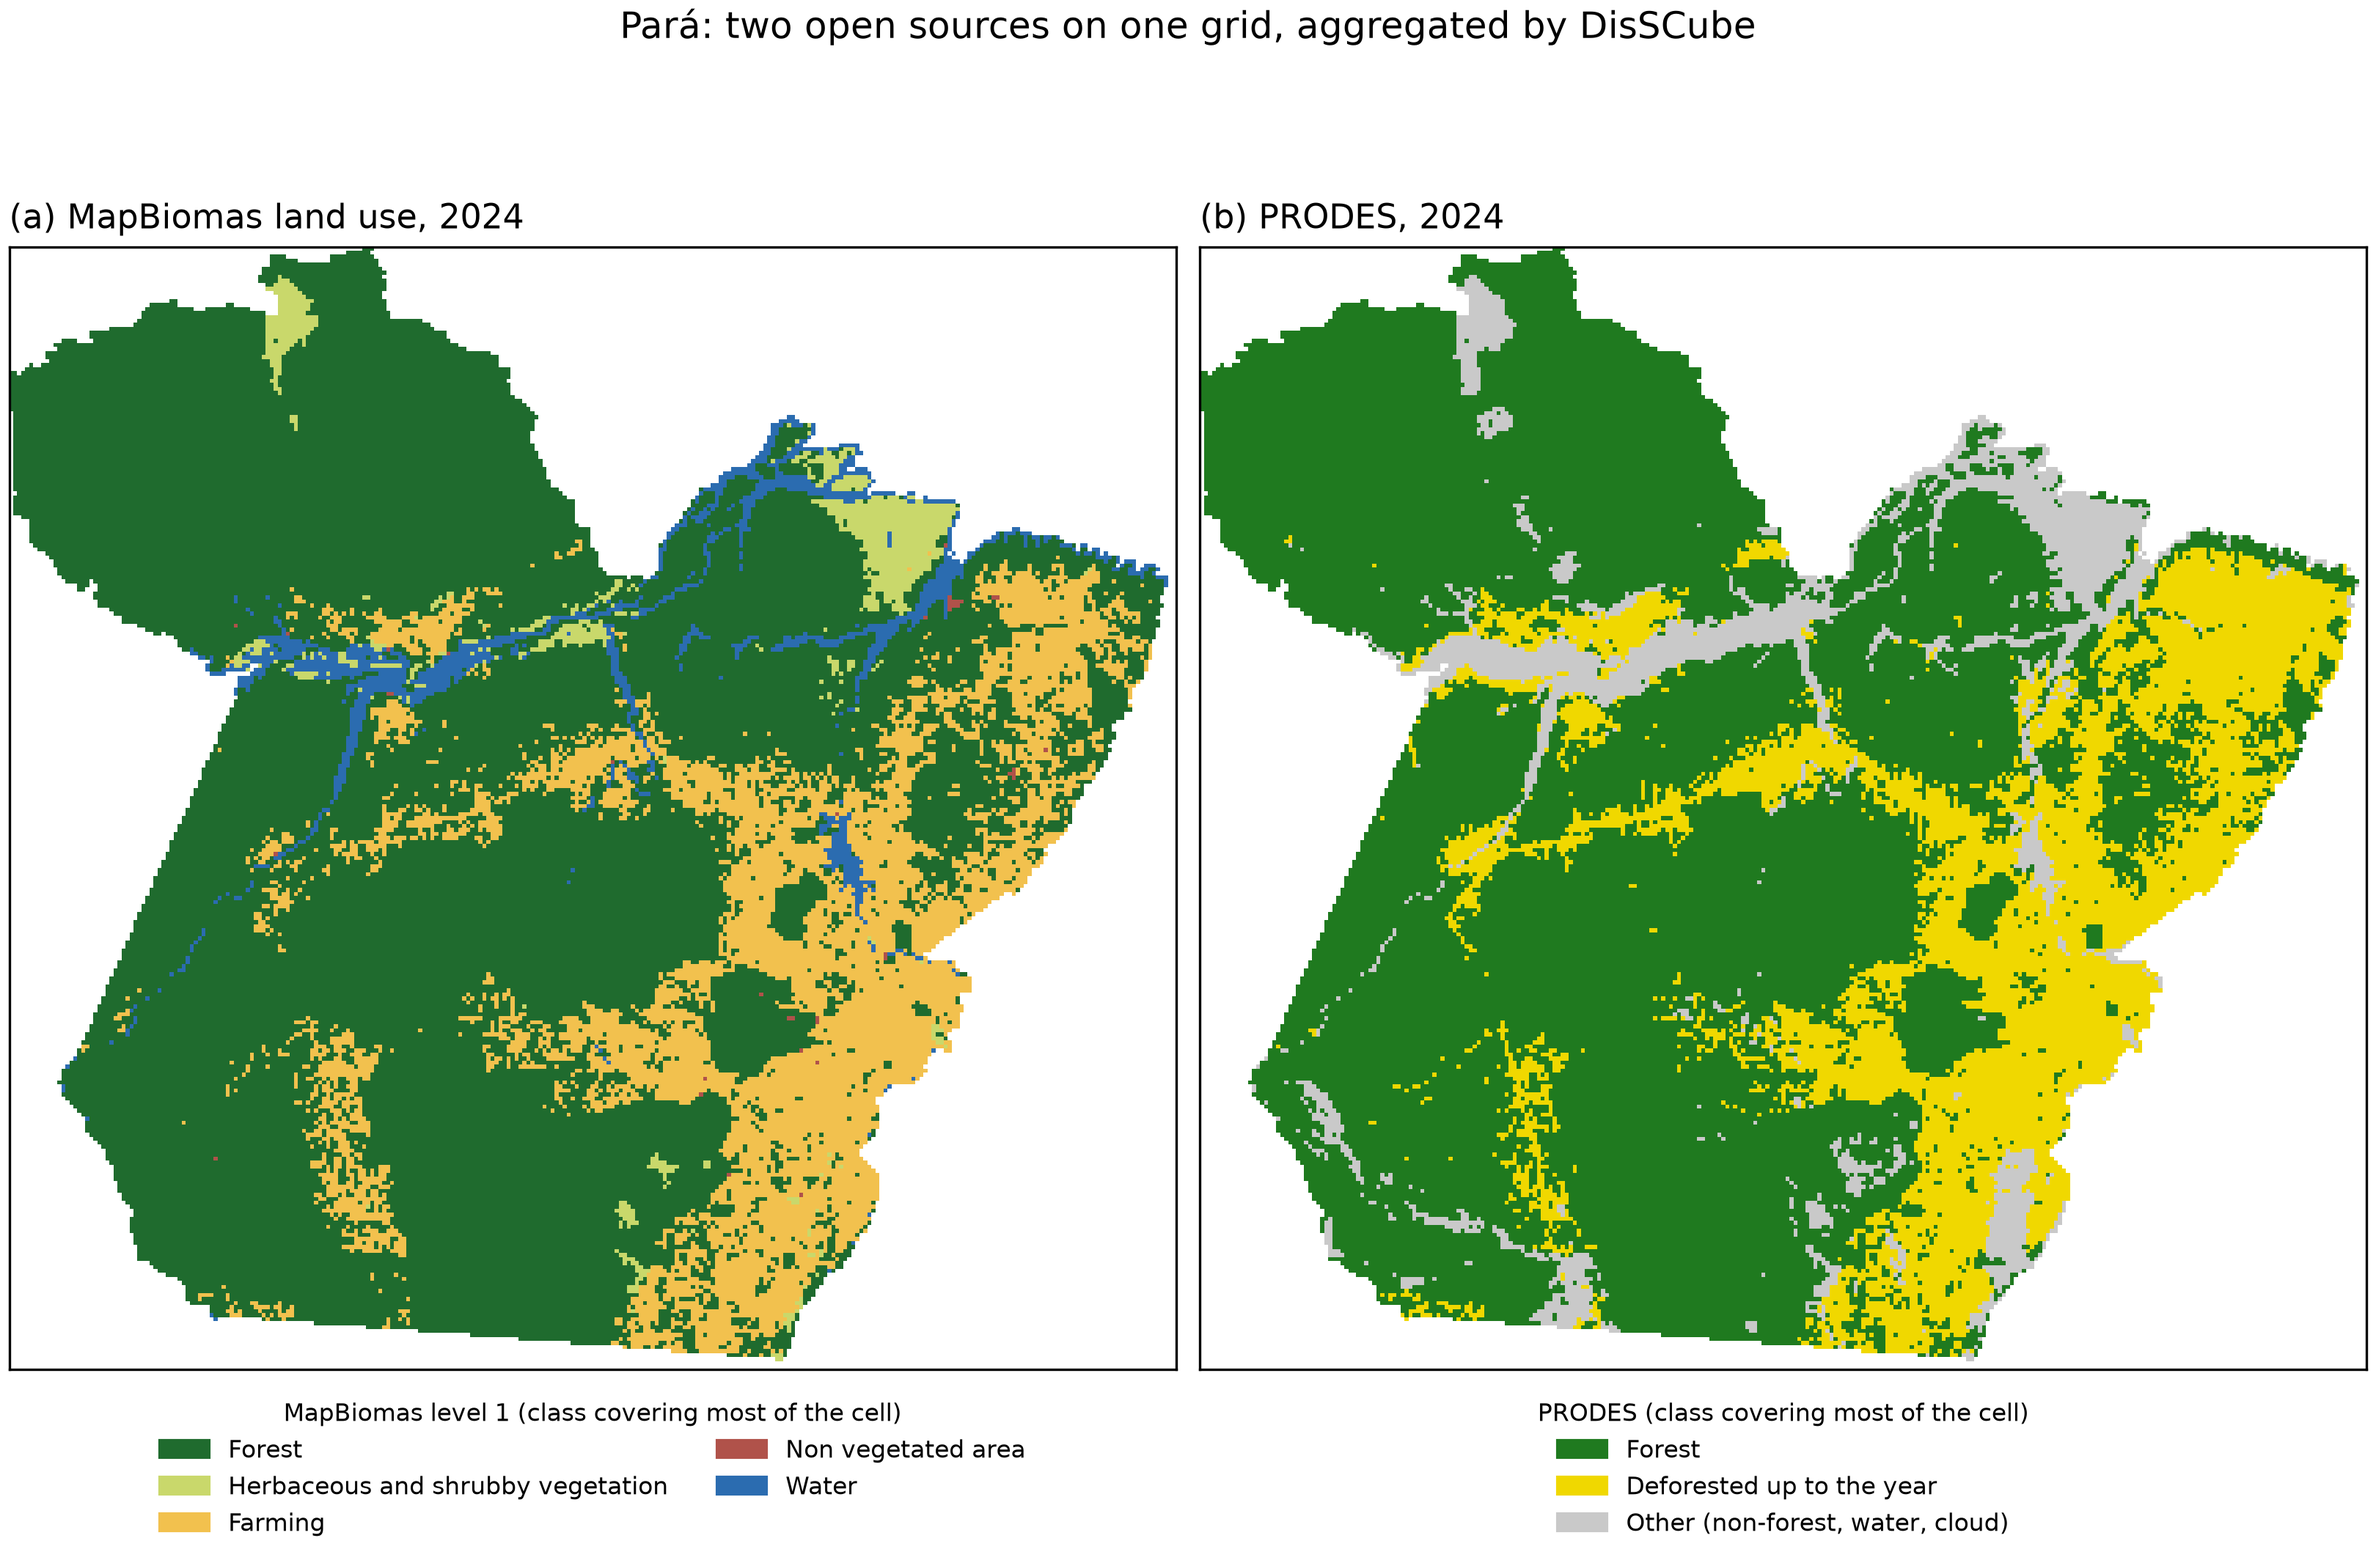
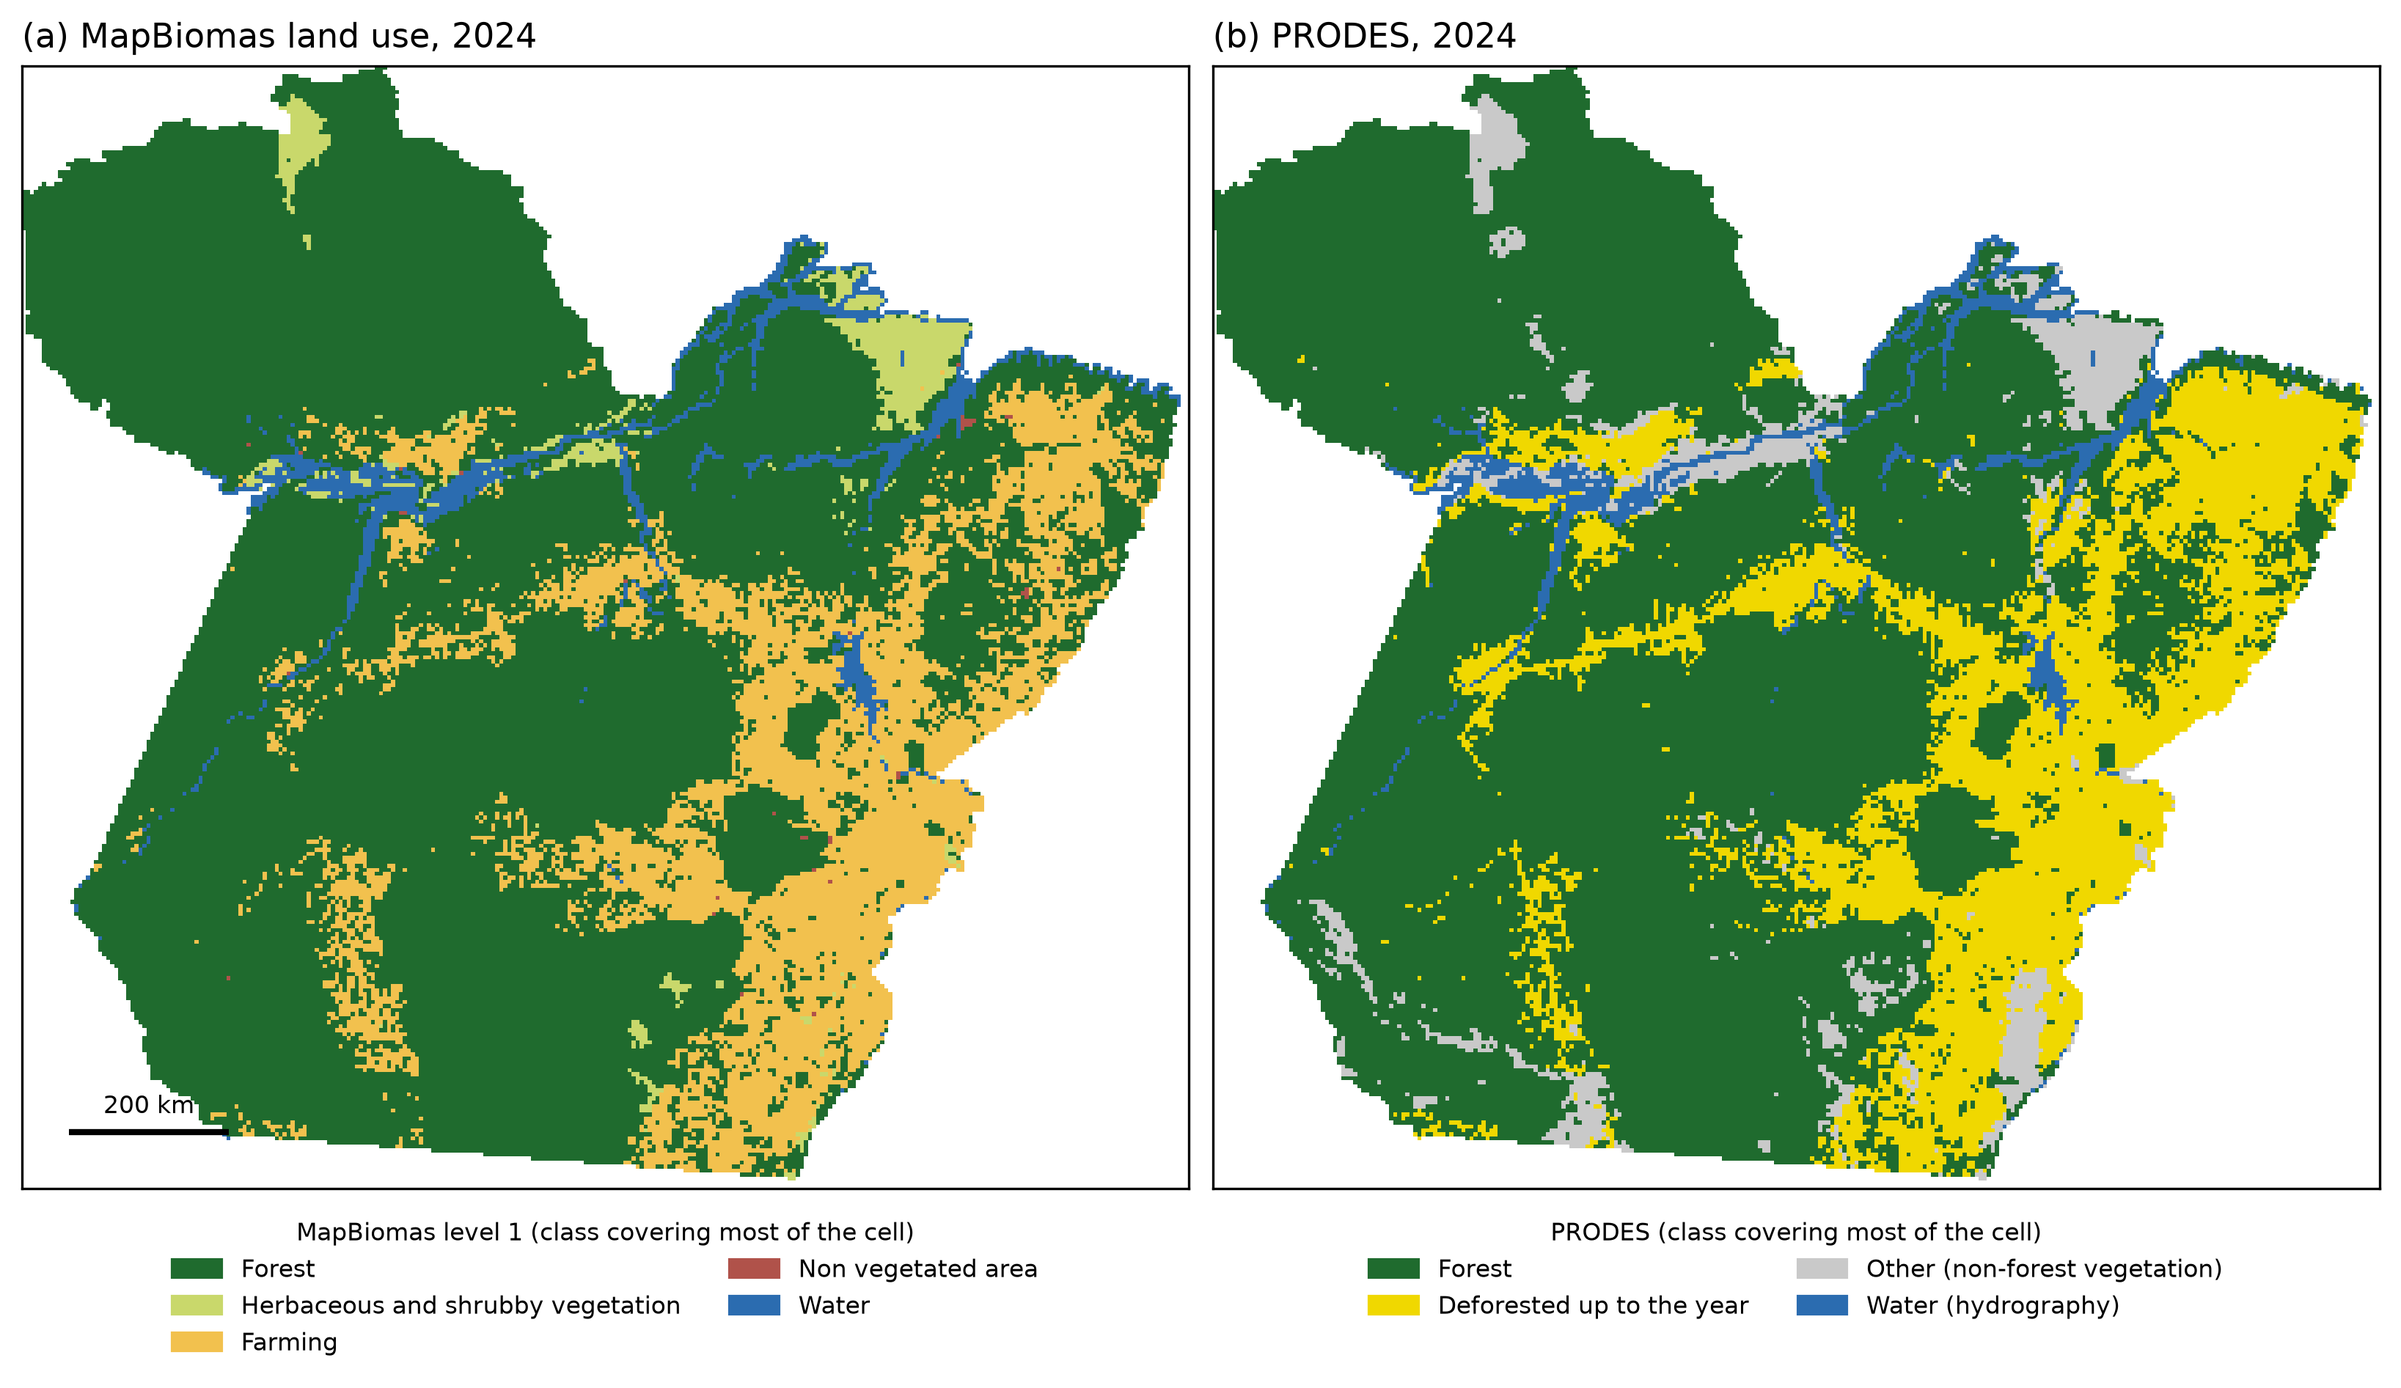
feat(prodes): separate_water gives the hydrography class its  own code

diff --git a/para/figure_sources.py b/para/figure_sources.py
@@ -1,11 +1,11 @@
 """One figure with the open sources of the state of Pará on the 5 km grid of `sources.toml`.
 
     python figure_sources.py [cube.tif] [--bdc bdc_ndvi.tif] [--year 2024] [--out ../docs/para_sources.png]
-                             [--state-zip PA_UF_2025.zip] [--title Pará]
+                             [--state-zip PA_UF_2025.zip] [--title "Pará: ..."]
 
 (a) MapBiomas: the level-1 class that covers most of each cell (`l1_class`: Forest, Herbaceous and shrubby
 vegetation, Farming, Non vegetated area, Water). (b) PRODES: the class that covers most of the cell (`prodes_class`:
-Forest, Deforested up to the year, Other). (c) Brazil Data Cube: Landsat NDVI, only when --bdc gives the cube of
+Forest, Deforested up to the year, Other, Water). (c) Brazil Data Cube: Landsat NDVI, only when --bdc gives the cube of
 bdc_ndvi.toml. Cells outside the state (IBGE boundary, PA_UF_2025.zip, from https://geoftp.ibge.gov.br/organizacao_do_territorio/malhas_territoriais/malhas_municipais/municipio_2025/UFs/PA/PA_UF_2025.zip) are masked.
 """
 import argparse
@@ -23,7 +23,9 @@ from rasterio.features import rasterize
 HERE = Path(__file__).resolve().parent
 LEVEL1 = {1: ("Forest", "#1f6b2e"), 2: ("Herbaceous and shrubby vegetation", "#c9d86b"), 3: ("Farming", "#f2c14e"),
           4: ("Non vegetated area", "#b0524a"), 5: ("Water", "#2b6cb0")}
-PRODES = {1: ("Forest", "#1f7a1f"), 2: ("Deforested up to the year", "#f0d800"), 3: ("Other (non-forest, water, cloud)", "#c9c9c9")}
+PRODES = {1: ("Forest", LEVEL1[1][1]), 2: ("Deforested up to the year", "#f0d800"),   # same green as MapBiomas forest
+          3: ("Other (non-forest vegetation)", "#c9c9c9"),
+          4: ("Water (hydrography)", LEVEL1[5][1])}     # class 4 needs `separate_water = true` in sources.toml; clouds are no data
 
 
 def band(ds, name):
@@ -57,7 +59,7 @@ def main():
     ap.add_argument("--year", default="2024")
     ap.add_argument("--out", default=str(HERE.parent / "docs" / "para_sources.png"))
     ap.add_argument("--state-zip", default=str(HERE / "PA_UF_2025.zip"), help="state boundary (IBGE shapefile in a zip)")
-    ap.add_argument("--title", default="Pará")
+    ap.add_argument("--title", default=None, help="title above the panels (none by default: the caption of the article says it)")
     a = ap.parse_args()
 
     l1, inside, ext = load(a.cube, f"l1_class_{a.year}", a.state_zip)
@@ -69,7 +71,7 @@ def main():
     n = 2 + (nd is not None)
     aspect = (ext[3] - ext[2]) / (ext[1] - ext[0])             # map height / width, so the panels fit the state
     pw = 5.4
-    fig, axes = plt.subplots(1, n, figsize=(pw * n, pw * aspect + 1.9), constrained_layout=True)
+    fig, axes = plt.subplots(1, n, figsize=(pw * n, pw * aspect + 1.3), constrained_layout=True)
     axes = np.atleast_1d(axes)
     for ax in axes:
         ax.set_xticks([]); ax.set_yticks([]); ax.set_facecolor("white")
@@ -82,10 +84,10 @@ def main():
                    title="MapBiomas level 1 (class covering most of the cell)", title_fontsize=8, frameon=False)
 
     pcmap = ListedColormap([c for _, c in PRODES.values()])
-    axes[1].imshow(np.where(inside, pr, np.nan), extent=ext, cmap=pcmap, norm=BoundaryNorm(np.arange(0.5, 4.5), pcmap.N),
+    axes[1].imshow(np.where(inside, pr, np.nan), extent=ext, cmap=pcmap, norm=BoundaryNorm(np.arange(0.5, 5.5), pcmap.N),
                    interpolation="nearest")
     axes[1].set_title(f"(b) PRODES, {a.year}", fontsize=11, loc="left")
-    axes[1].legend(handles=[Patch(color=c, label=nm) for nm, c in PRODES.values()], loc="upper center", bbox_to_anchor=(0.5, -0.01), ncol=1, fontsize=8,
+    axes[1].legend(handles=[Patch(color=c, label=nm) for nm, c in PRODES.values()], loc="upper center", bbox_to_anchor=(0.5, -0.01), ncol=2, fontsize=8,
                    title="PRODES (class covering most of the cell)", title_fontsize=8, frameon=False)
 
     if nd is not None:
@@ -93,9 +95,21 @@ def main():
         fig.colorbar(im, ax=axes[2], shrink=0.6, label="NDVI (mean of the dry-season composite)")
         axes[2].set_title("(c) Brazil Data Cube, Landsat NDVI 2020", fontsize=11, loc="left")
 
-    fig.suptitle(f"{a.title}: {'three' if n == 3 else 'two'} open sources on one grid, aggregated by DisSCube", fontsize=12)
+    # scale bar: about a quarter of the width, rounded to 1, 2 or 5 x 10^k km (the extent is in km, in the grid CRS)
+    width, height = ext[1] - ext[0], ext[3] - ext[2]
+    raw = width / 4
+    mag = 10 ** np.floor(np.log10(raw))
+    km = next(m * mag for m in (5, 2, 1) if m * mag <= raw)
+    x0, y0 = ext[0] + 0.04 * width, ext[2] + 0.05 * height
+    axes[0].plot([x0, x0 + km], [y0, y0], color="black", lw=2, solid_capstyle="butt")
+    axes[0].text(x0 + km / 2, y0 + 0.012 * height, f"{km:g} km", ha="center", va="bottom", fontsize=8)
+    for ax in axes:
+        ax.set_xlim(ext[0], ext[1])
+        ax.set_ylim(ext[2], ext[3])
+    if a.title:
+        fig.suptitle(a.title, fontsize=12)
     Path(a.out).parent.mkdir(parents=True, exist_ok=True)
-    fig.savefig(a.out, dpi=300)
+    fig.savefig(a.out, dpi=300, bbox_inches="tight")
     share = {LEVEL1[k][0]: float(np.mean(l1[inside & ~np.isnan(l1)] == k)) for k in LEVEL1}
     print("figure:", a.out, "| share of the cells by class:", {k: round(v, 3) for k, v in share.items()})
 

diff --git a/README.md b/README.md
@@ -84,8 +84,8 @@ stops for lack of memory; the same file on the Acre (430 million pixels, 1 km) r
   ([Collection 11 legend codes](https://brasil.mapbiomas.org/downloads/codigos-de-legenda/)). Code 91 appears in the 2024 map and is
   placed under non-vegetated area by assumption: check it in the legend CSV. For the share of the cell in a class instead of the
   dominant one, `percentage` takes a list: `class_code = [3, 4, 5, 6, 49]`.
-- **PRODES:** `prodes_class` is the class that covers most of the cell: forest, deforested up to 2024, other (non-forest vegetation,
-  water, cloud). For the deforested share, `percentage` with `class_code = 2`.
+- **PRODES:** `prodes_class` is the class that covers most of the cell: forest, deforested up to 2024, other (non-forest vegetation) and
+  water (hydrography, kept apart by `separate_water = true` on the source: PRODES alone folds it into other; clouds are no data). For the deforested share, `percentage` with `class_code = 2`.
 - `figure_sources.py` draws the sources side by side (`docs/para_sources.png`): (a) MapBiomas level-1 land use, (b) PRODES classes and,
   with `--bdc` pointing to the GeoTIFF of `bdc_ndvi.toml`, (c) the BDC NDVI. Cells outside the state are masked using the IBGE
   boundary ([`PA_UF_2025.zip`](https://geoftp.ibge.gov.br/organizacao_do_territorio/malhas_territoriais/malhas_municipais/municipio_2025/UFs/PA/PA_UF_2025.zip), IBGE territorial mesh 2025, kept in the folder).
